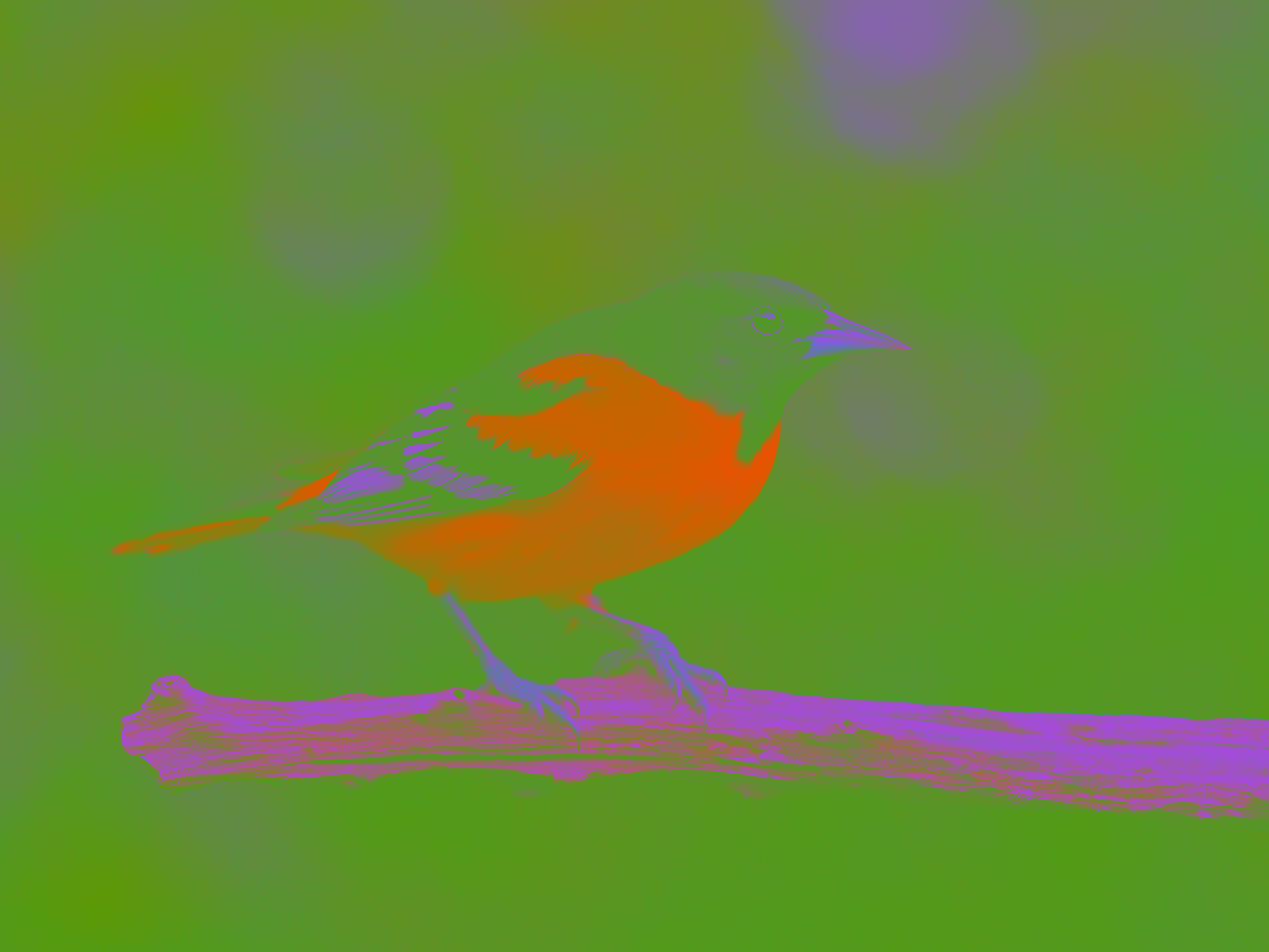
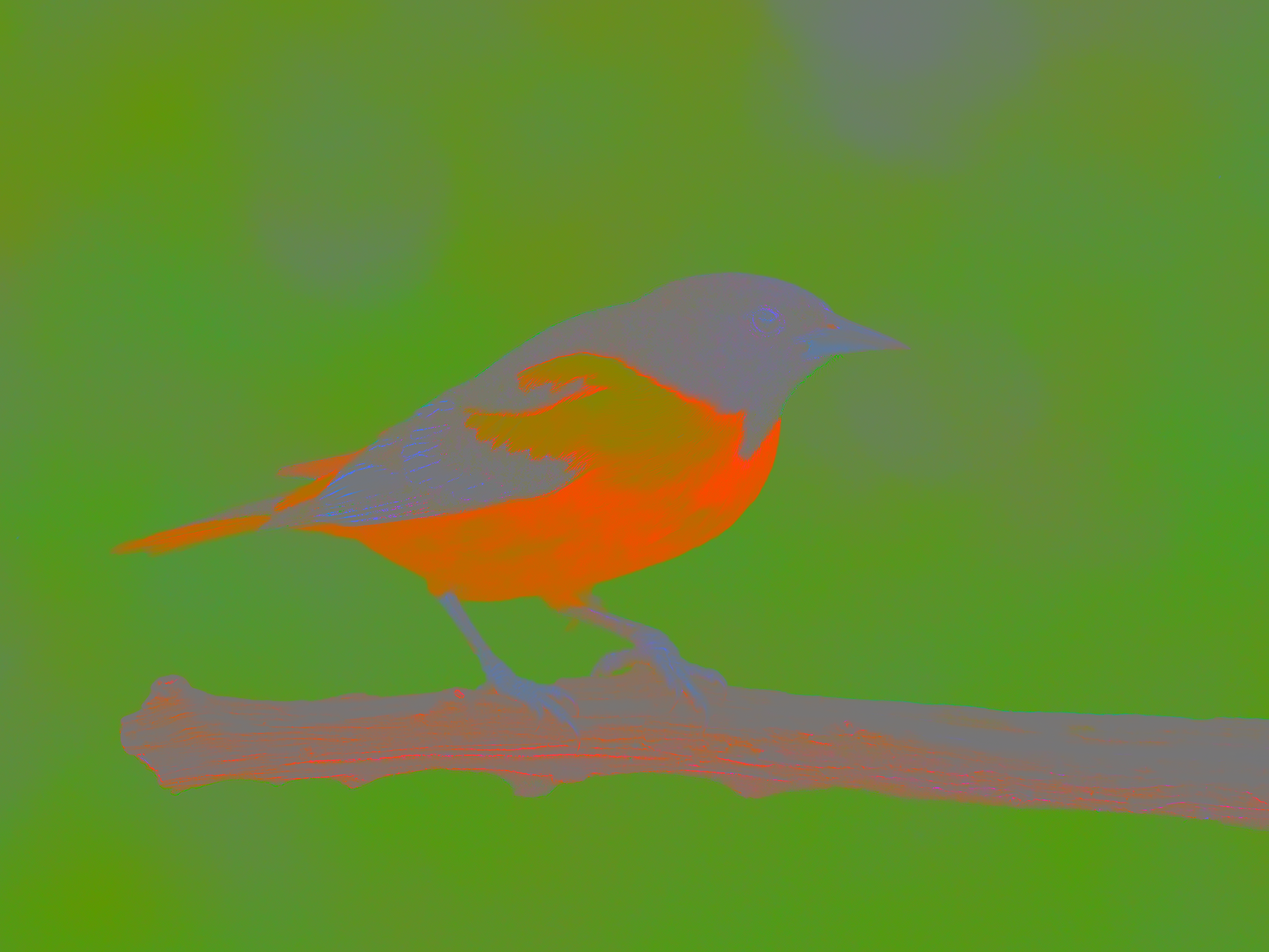
major revision

Changed region(s): [[0.093, 0.276, 1.0, 0.8893], [0.62, 0.0, 0.806, 0.184]]

diff --git a/main.py b/main.py
@@ -2,49 +2,122 @@
 
 from PIL import Image
 import numpy as np
+import matplotlib.pyplot as plt
+from tqdm import tqdm
 
-L = 85
-img = np.array(Image.open('image.png'), dtype=np.float32)
+# constants
+IMAGE_FILE = 'image-rgb.png'
+GRAY_MATRIX = (0.299, 0.587, 0.114)
 
-vals = []
-for row in range(img.shape[0]):
-    rgb_original = img[row, :, :].T
-    A = 1/1000 * np.array([299, 587, 114]).reshape((1, 3))
-    b = L * np.ones((1, rgb_original.shape[1])) - A @ rgb_original
-    rgb_new = np.linalg.lstsq(A, b, rcond=None)[0]
-    vals.extend(rgb_new)
-    rgb_new = rgb_new + rgb_original
+# open file
+img = np.array(Image.open(IMAGE_FILE), dtype=np.float64)
 
-    img[row, :, :] = rgb_new.T
+# make matrix where each column is a pixel is each row is a channel (red, green, blue)
+r = img[:, :, 0].flatten()
+g = img[:, :, 1].flatten()
+b = img[:, :, 2].flatten()
+RGB0 = np.vstack((r, g, b))
 
+# initialize output matrix
+RGB1 = np.zeros(RGB0.shape)
 
-# img_temp = Image.fromarray(img, 'RGB')
-# img_temp.show()
+# matrix to convert RGB values to gray
+G = np.array(GRAY_MATRIX).reshape((1,3))
+L = np.mean(G @ RGB0)
 
-print(np.max(img))
-print(np.min(img))
-print(np.max(vals))
-print(np.min(vals))
+cache = dict()
+def solve_with_cache(r0, g0, b0):
+  cache_hash = r0 + 256*g0 + (256**2)*b0
+  if cache_hash in cache:
+    return cache[cache_hash]
+  
+  solution = solve(r0, g0, b0)
+  cache[cache_hash] = solution
+  return solution
 
+def solve(r0, g0, b0):
+  # handle degenerate case where color is purely gray
+  if r0 == b0 == g0:
+    return L*np.ones(3)
 
-#         A = 1/1000 * np.array([299, 587, 114])
-#         b = L - 1/1000 * np.array([299, 587, 114]) @ rgb_original
-#
-#         num_vals = rgb_original.shape[1]
-#         A = np.ones((num_vals, 1)) @ A.reshape((1, 3))
-#         b = b.reshape((num_vals, 1))
-#
-#         rgb_new, _, _, _ = np.linalg.lstsq(A, b, rcond=None)
-#         print(rgb_new.shape)
-#         print(rgb_original.shape)
-#         rgb_new = rgb_new.reshape((3,)) + rgb_original
-#
-#         img[row, :, :] = rgb_new
-#
-#     print(f"{row}/{img.shape[0]} ({int(row/img.shape[0])}%)")
-#
-# img.save()
-# print(type(img))
-# img = img.convert('LA')
-# print(type(img))
-# img.save('greyscale.png')
+  # create system of equations to find initial solution
+  # 1) 0.299 r + 0.587 g + 0.114 b = L
+  # 2) r = r0*s
+  # 3) g = g0*s
+  # 4) b = b0*s
+
+  A = np.array([
+    [*GRAY_MATRIX, 0],
+    [1, 0, 0, -r0],
+    [0, 1, 0, -g0],
+    [0, 0, 1, -b0],
+  ])
+
+  b = np.array([[L], [0], [0], [0]])
+
+  # solution is [r; g; b; s] so extract first three
+  x_start = (np.linalg.inv(A) @ b)[:3,:]
+
+  # check inequality
+  C = np.vstack([
+    np.eye(3),
+    -np.eye(3),
+  ])
+
+  d = np.vstack([
+    np.zeros((3, 1)),
+    -255*np.ones((3, 1)),
+  ])
+
+  # finish if solution satisfies inequality constraint
+  if np.all(C @ x_start >= d):
+    return x_start.flatten()
+
+  # find specific inequality that wasn't satisfied
+  inds = np.where(C @ x_start < d)[0]
+
+  # reduce C and d to 1 dimensional matrices
+  C_reduced = C[inds, :]
+  d_reduced = d[inds, :]
+
+  # find vector of line between two planes
+  x_n = np.array([
+    [((GRAY_MATRIX[0]-1)*r0 + GRAY_MATRIX[1]*g0 + GRAY_MATRIX[2]*b0)],
+    [(GRAY_MATRIX[0]*r0 + (GRAY_MATRIX[1]-1)*g0 + GRAY_MATRIX[2]*b0)],
+    [(GRAY_MATRIX[0]*r0 + GRAY_MATRIX[1]*g0 + (GRAY_MATRIX[2]-1)*b0)],
+  ])
+
+  n = (d_reduced - C_reduced @ x_start)/(C_reduced @ x_n)
+
+  if np.any(n < 0):
+    raise Exception(f"Negative n")
+  
+  n = np.max(n)
+  x_fixed = x_start + n*x_n
+
+  return x_fixed.flatten()
+
+# iterate over every column
+for i in tqdm(range(RGB0.shape[1])):
+  r0, g0, b0 = RGB0[:,i]
+  RGB1[:,i] = solve_with_cache(r0, g0, b0)
+
+# --------------------------------------------------------
+# save the images
+# --------------------------------------------------------
+
+# round to nearest integer
+RGB1 = (RGB1 + 0.5).astype(np.uint8)
+
+r = RGB1[0, :].reshape(img.shape[:-1])
+g = RGB1[1, :].reshape(img.shape[:-1])
+b = RGB1[2, :].reshape(img.shape[:-1])
+img = np.dstack((r, g, b))
+
+img_gray = np.array(Image.fromarray(img).convert("L"))
+print(np.min(img_gray))
+print(np.max(img_gray))
+
+Image.open('image-rgb.png').convert("L").save("image-gray.png")
+Image.fromarray(img).save('converted-rgb.png')
+Image.fromarray(img).convert("L").save('converted-gray.png')
